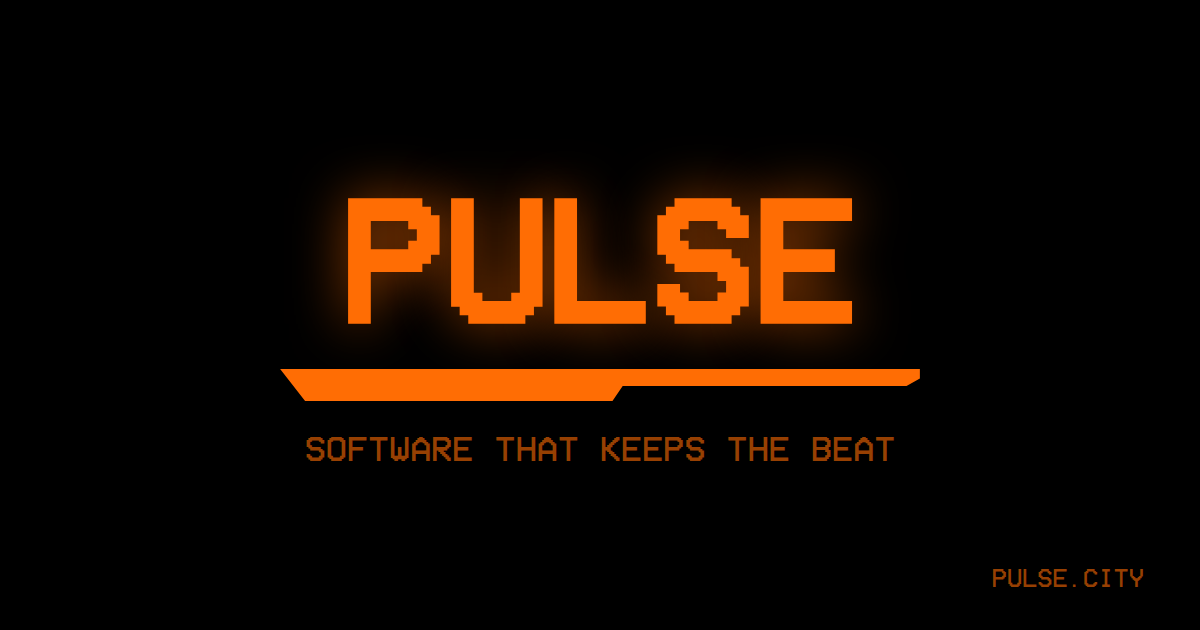
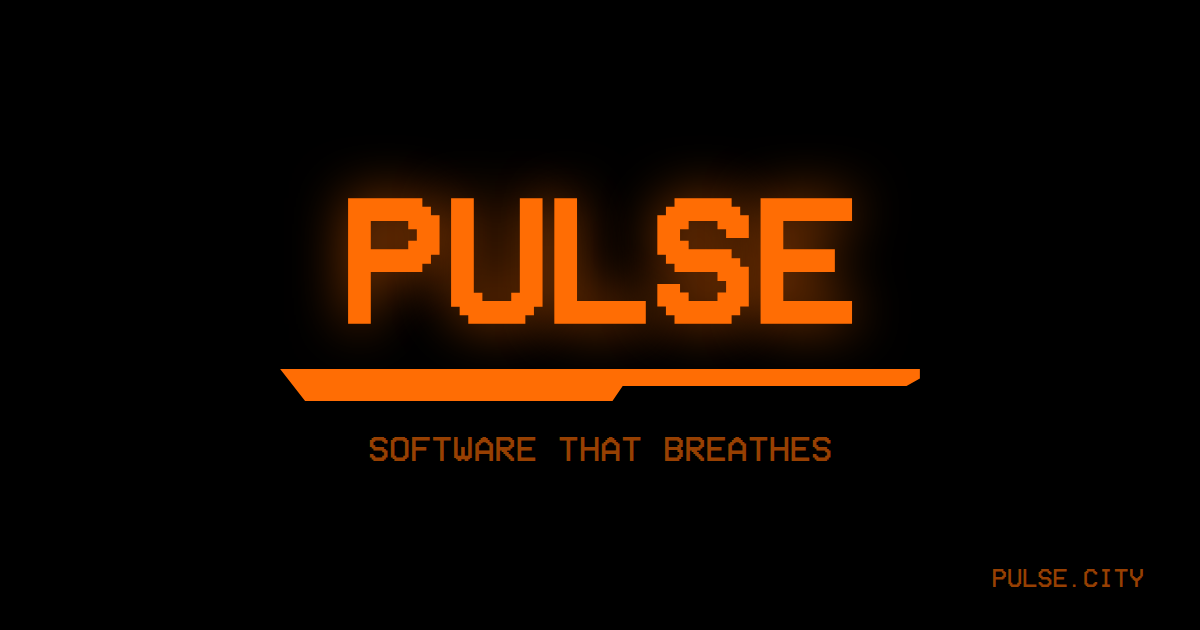
New tagline: Software that breathes
Updates the visible tagline, the meta/Open Graph description, the OG
image alt text and the OG image itself. The tagline goes from
text-primary/60 (about 3.1:1 on black) to /80 (about 4.9:1) to meet
WCAG AA for small text.

Changed region(s): [[0.2467, 0.6937, 0.74, 0.754]]

diff --git a/src/routes/+page.svelte b/src/routes/+page.svelte
@@ -12,7 +12,7 @@
 	// Link previews and canonical need absolute URLs.
 	const site = 'https://pulse.city';
 	const title = 'Pulse Global';
-	const description = 'Pulse Global BV builds software that keeps the beat, from Ghent, Belgium.';
+	const description = 'Pulse Global BV builds software that breathes, from Ghent, Belgium.';
 
 	// Assembled in the browser only, from reversed pieces and char codes, so neither the HTML nor
 	// the JS bundle contains the address, an @, or the link scheme. Comments and local names are
@@ -43,7 +43,7 @@
 	<meta property="og:image" content="{site}/og.png" />
 	<meta property="og:image:width" content="1200" />
 	<meta property="og:image:height" content="630" />
-	<meta property="og:image:alt" content="PULSE: software that keeps the beat" />
+	<meta property="og:image:alt" content="PULSE: software that breathes" />
 	<meta name="twitter:card" content="summary_large_image" />
 </svelte:head>
 
@@ -106,8 +106,8 @@
 		<div class="boot-crt">
 			<h1 class="breath-text text-7xl font-extrabold sm:text-8xl lg:text-9xl">Pulse</h1>
 		</div>
-		<p class="boot-fade boot-late text-sm tracking-[0.25em] text-primary/60 sm:text-base">
-			Software that keeps the beat
+		<p class="boot-fade boot-late text-sm tracking-[0.25em] text-primary/80 sm:text-base">
+			Software that breathes
 		</p>
 	</main>
 
